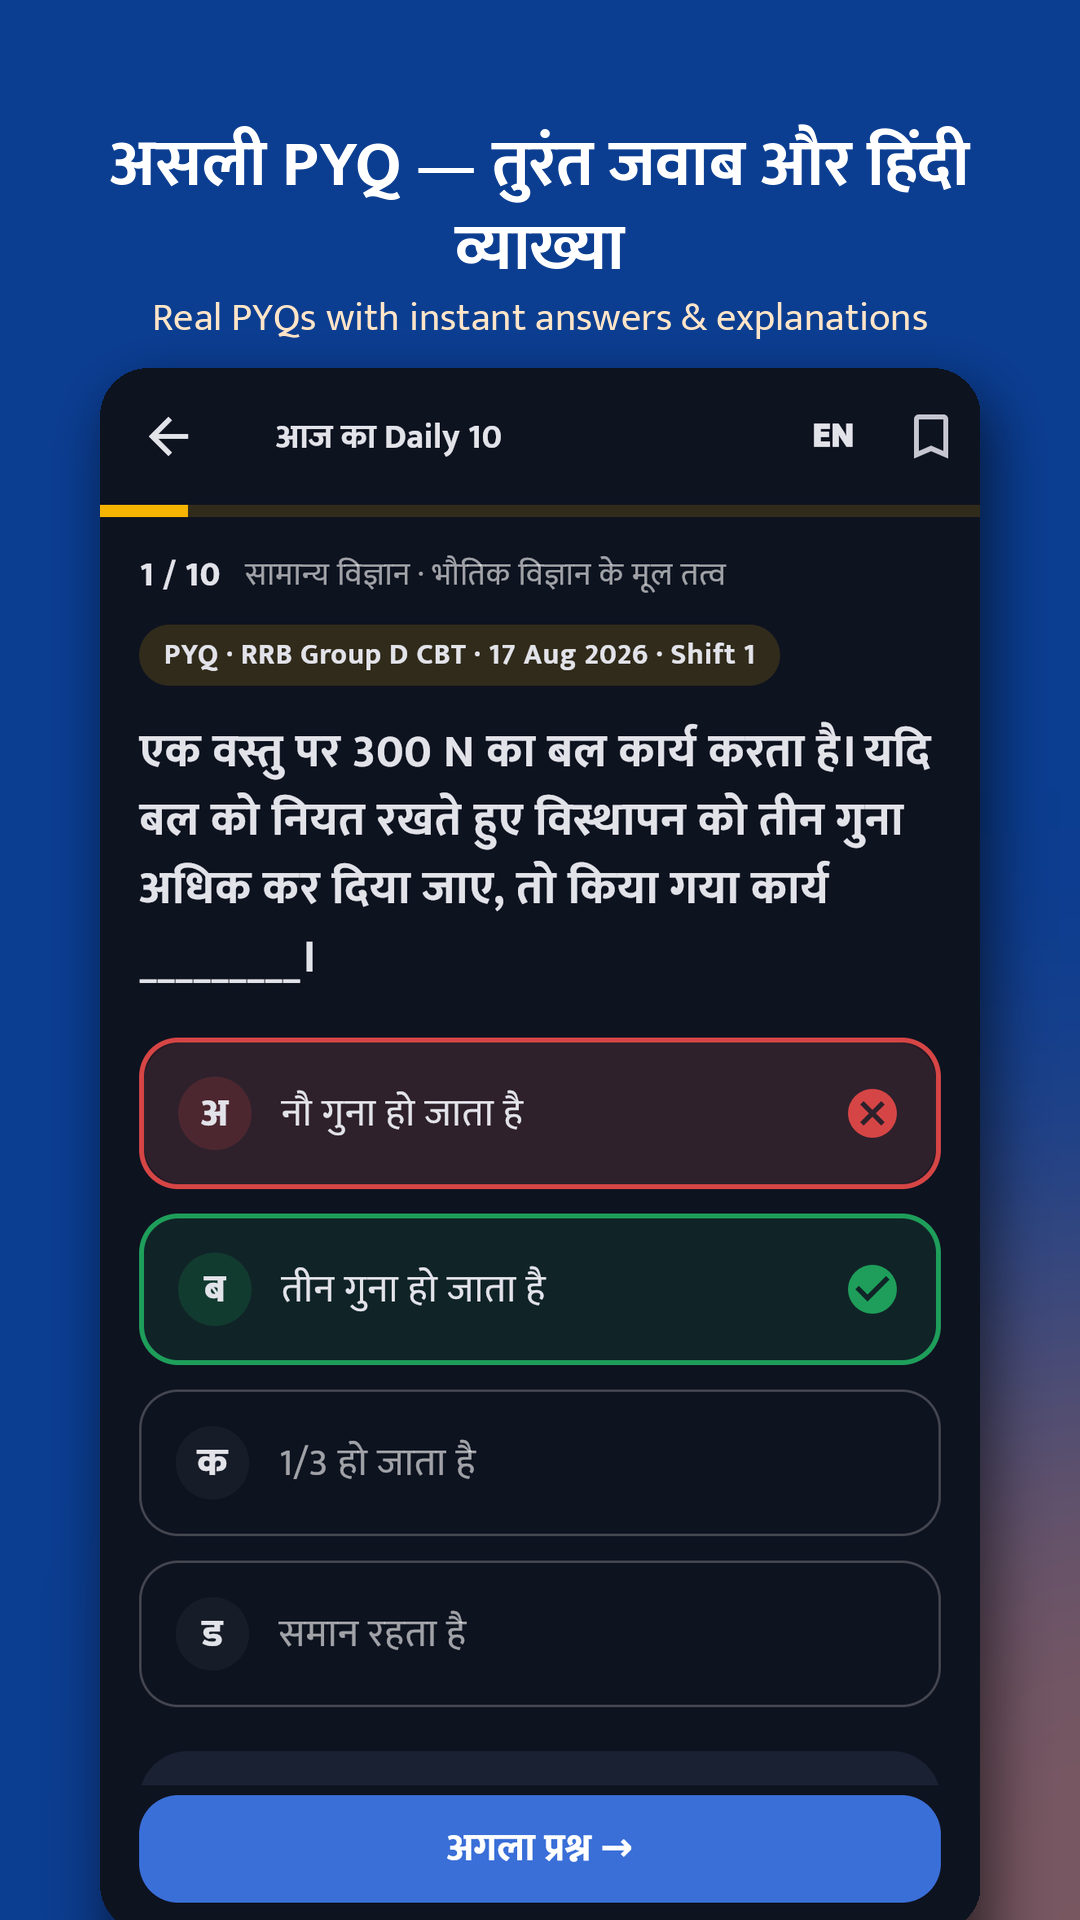
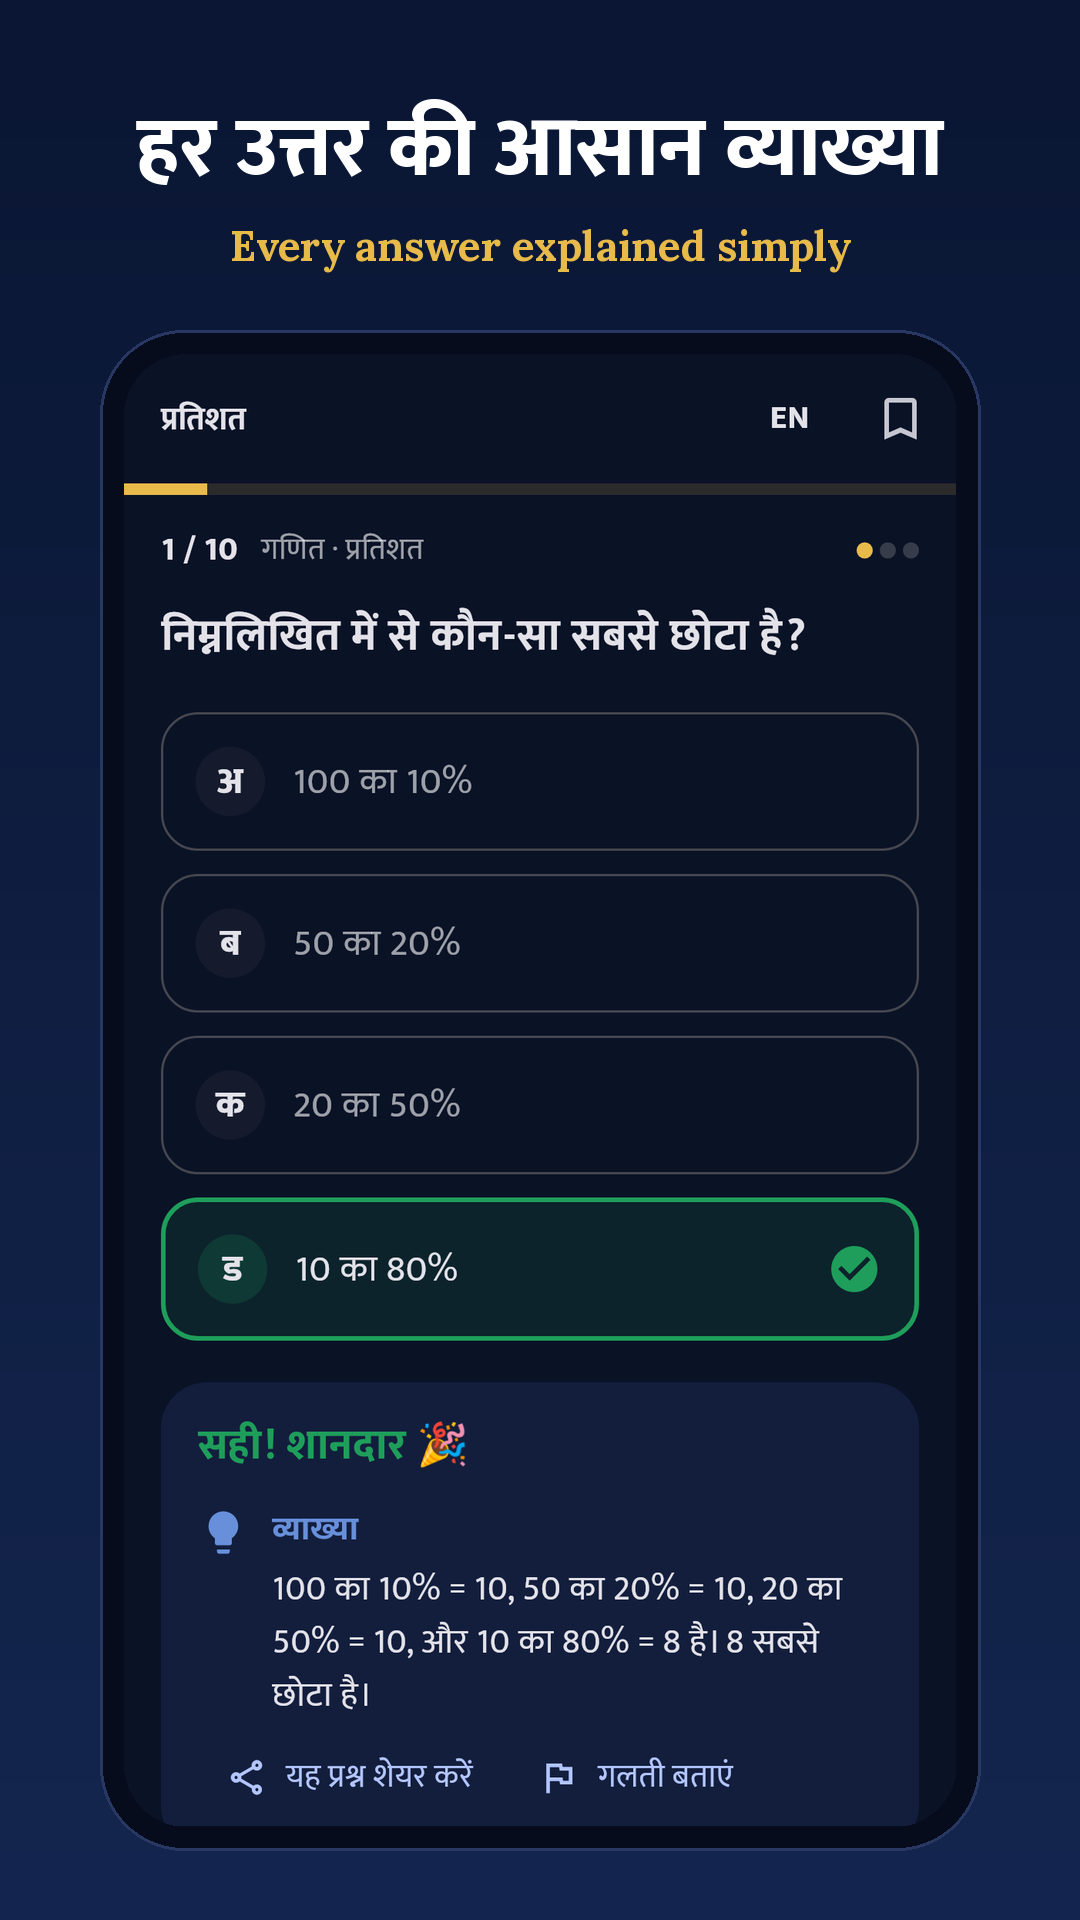
Store screenshots in the new navy and gold: rendered from the real screens, framed by pipeline/store_shots.py
Claude-Session: https://claude.ai/code/session_01T9442ta7HcxGi7RPfPaS6U

diff --git a/railpariksha/app/test/store_shots_test.dart b/railpariksha/app/test/store_shots_test.dart
@@ -1,0 +1,141 @@
+// Renders the Play Store / website screenshots from the real screens (Hindi, dark, 360x740 at 3x).
+// Skipped unless STORE_SHOTS_DIR is set:  STORE_SHOTS_DIR=/tmp/raw flutter test test/store_shots_test.dart
+// pipeline/store_shots.py then frames them with a caption.
+import 'dart:io';
+import 'dart:ui' as ui;
+
+import 'package:flutter/material.dart';
+import 'package:flutter/rendering.dart';
+import 'package:flutter/services.dart';
+import 'package:flutter_test/flutter_test.dart';
+import 'package:railpariksha/core/app_scope.dart';
+import 'package:railpariksha/core/purchases.dart';
+import 'package:railpariksha/core/theme.dart';
+import 'package:railpariksha/data/content_repo.dart';
+import 'package:railpariksha/data/progress.dart';
+import 'package:railpariksha/logic/quiz_builder.dart';
+import 'package:railpariksha/screens/ca_digest_screen.dart';
+import 'package:railpariksha/screens/flashcard_screen.dart';
+import 'package:railpariksha/screens/practice_screen.dart';
+import 'package:railpariksha/screens/pyq_screen.dart';
+import 'package:railpariksha/screens/quiz_screen.dart';
+import 'package:railpariksha/screens/today_screen.dart';
+
+Future<void> _fonts() async {
+  final mukta = FontLoader('Mukta');
+  for (final w in ['Regular', 'SemiBold', 'Bold', 'ExtraBold']) {
+    mukta.addFont(Future.value(ByteData.view(File('assets/fonts/Mukta-$w.ttf').readAsBytesSync().buffer)));
+  }
+  await mukta.load();
+  final lora = FontLoader('Lora')
+    ..addFont(Future.value(ByteData.view(File('assets/fonts/Lora-Bold.ttf').readAsBytesSync().buffer)));
+  await lora.load();
+  final icons = FontLoader('MaterialIcons')
+    ..addFont(Future.value(ByteData.view(
+        File('${Platform.environment['FLUTTER_ROOT'] ?? '/tmp/flutter'}/bin/cache/artifacts/material_fonts/MaterialIcons-Regular.otf').readAsBytesSync().buffer)));
+  await icons.load();
+  final emoji = FontLoader('NotoColorEmoji')
+    ..addFont(Future.value(ByteData.view(File('/usr/share/fonts/truetype/noto/NotoColorEmoji.ttf').readAsBytesSync().buffer)));
+  await emoji.load();
+  final roboto = FontLoader('RobotoShot')
+    ..addFont(Future.value(ByteData.view(
+        File('${Platform.environment['FLUTTER_ROOT'] ?? '/tmp/flutter'}/bin/cache/artifacts/material_fonts/Roboto-Regular.ttf')
+            .readAsBytesSync()
+            .buffer)));
+  await roboto.load();
+  final math = FontLoader('MathFallback')
+    ..addFont(Future.value(ByteData.view(File('assets/fonts/MathFallback-Regular.ttf').readAsBytesSync().buffer)));
+  await math.load();
+}
+
+void main() {
+  TestWidgetsFlutterBinding.ensureInitialized();
+  final dir = Platform.environment['STORE_SHOTS_DIR'];
+  if (dir == null) {
+    test('store shots (skipped: STORE_SHOTS_DIR not set)', () {}, skip: true);
+    return;
+  }
+  late ContentRepo repo;
+  setUpAll(() async {
+    await _fonts();
+    repo = ContentRepo();
+    await repo.load();
+    Directory(dir).createSync(recursive: true);
+  });
+
+  Future<void> shot(WidgetTester tester, String name, Widget Function(ContentRepo, Progress) build,
+      {Future<void> Function(WidgetTester)? after}) async {
+    tester.view.physicalSize = const Size(360 * 3, 740 * 3);
+    tester.view.devicePixelRatio = 3;
+    addTearDown(tester.view.reset);
+    final p = Progress()
+      ..lang = 'hi'
+      ..onboarded = true
+      ..name = 'Aniket'
+      ..examId = 'rrb_ntpc'
+      ..removedAds = false
+      ..reminders = false;
+    final key = GlobalKey();
+    await tester.pumpWidget(RepaintBoundary(
+      key: key,
+      child: AppScope(
+        repo: repo,
+        progress: p,
+        purchases: PurchaseManager(p),
+        child: MaterialApp(
+          debugShowCheckedModeBanner: false,
+          theme: () {
+            final t = buildTheme(Brightness.dark);
+            const fb = ['MathFallback', 'RobotoShot', 'NotoColorEmoji'];
+            return t.copyWith(
+              textTheme: t.textTheme.apply(fontFamilyFallback: fb),
+              appBarTheme: t.appBarTheme.copyWith(
+                  titleTextStyle: t.appBarTheme.titleTextStyle?.copyWith(fontFamilyFallback: ['Mukta', ...fb])),
+            );
+          }(),
+          home: Scaffold(body: build(repo, p)),
+        ),
+      ),
+    ));
+    await tester.pump();
+    await tester.pump(const Duration(seconds: 2));
+    if (after != null) {
+      await after(tester);
+      await tester.pump(const Duration(seconds: 2));
+    }
+    final boundary = key.currentContext!.findRenderObject() as RenderRepaintBoundary;
+    await tester.runAsync(() async {
+      final image = await boundary.toImage(pixelRatio: 3);
+      final png = await image.toByteData(format: ui.ImageByteFormat.png);
+      File('$dir/$name.png').writeAsBytesSync(png!.buffer.asUint8List());
+    });
+    await tester.pumpWidget(const SizedBox());
+    await tester.pump(const Duration(seconds: 2));
+  }
+
+  testWidgets('today', (t) => shot(t, 'today', (r, p) => TodayScreen(onNavigate: (_) {})));
+  testWidgets('pyq', (t) => shot(t, 'pyq', (r, p) => const PyqScreen()));
+  testWidgets('practice', (t) => shot(t, 'practice', (r, p) => const PracticeScreen()));
+  testWidgets('ca', (t) => shot(t, 'ca', (r, p) => const CaDigestScreen()));
+  testWidgets(
+      'flashcards',
+      (t) => shot(t, 'flashcards', (r, p) => const FlashcardScreen(), after: (t) async {
+        await t.tap(find.textContaining('टैप'));
+        await t.pump(const Duration(seconds: 1));
+      }));
+  testWidgets(
+      'mock',
+      (t) => shot(t, 'mock', (r, p) => QuizScreen(spec: QuizBuilder(r, p).mock()), after: (t) async {
+        await t.tap(find.byType(CircleAvatar).at(2));
+        await t.pump(const Duration(seconds: 1));
+      }));
+  testWidgets('quiz', (t) {
+    late QuizSpec spec;
+    return shot(t, 'quiz', (r, p) => QuizScreen(spec: spec = QuizBuilder(r, p).practice(subject: 'maths', topic: 'percentage')),
+        after: (t) async {
+      // The right answer, so the store picture shows the "correct" state.
+      await t.tap(find.byType(CircleAvatar).at(spec.questions.first.answer));
+      await t.pump(const Duration(seconds: 1));
+    });
+  });
+}

diff --git a/railpariksha/pipeline/store_shots.py b/railpariksha/pipeline/store_shots.py
@@ -1,0 +1,89 @@
+#!/usr/bin/env python3
+"""Frames the raw screen renders into the seven Play Store screenshots (1080x1920) and the website strip.
+
+  STORE_SHOTS_DIR=/tmp/raw flutter test test/store_shots_test.dart     (in app/)   renders the real screens
+  python pipeline/store_shots.py --raw /tmp/raw                                     frames them
+
+Writes docs/store/play_console_assets/screenshots/N_*.png and docs/store/site_assets/shot-N.webp.
+Needs Pillow built with raqm (Hindi conjuncts).
+"""
+import argparse
+import sys
+from pathlib import Path
+
+from PIL import Image, ImageDraw, ImageFont
+
+ROOT = Path(__file__).resolve().parent.parent
+FONTS = ROOT / "app/assets/fonts"
+OUT = ROOT / "docs/store/play_console_assets/screenshots"
+SITE = ROOT / "docs/store/site_assets"
+W, H = 1080, 1920
+TOP, BOTTOM = (10, 22, 51), (20, 38, 79)
+GOLD = (232, 186, 74)
+SHOTS = [  # raw name, output name, Hindi caption, English caption
+    ("today", "1_01_today", "रोज़ का मिशन, स्ट्रीक और करेंट अफेयर्स", "Daily mission, streak & current affairs"),
+    ("pyq", "2_02_pyq", "रेलवे के असली पिछले साल के प्रश्न", "Real previous-year railway papers"),
+    ("quiz", "3_04_quiz_explanation", "हर उत्तर की आसान व्याख्या", "Every answer explained simply"),
+    ("ca", "4_05_ca_digest", "रोज़ का करेंट अफेयर्स", "Daily current affairs, in short"),
+    ("flashcards", "5_07_flashcards", "फ्लैशकार्ड से तेज़ रिवीज़न", "Quick revision with flashcards"),
+    ("mock", "6_09_mock", "असली परीक्षा जैसे मॉक टेस्ट", "Mock tests like the real exam"),
+    ("practice", "7_03_practice", "विषयवार अभ्यास", "Practice subject by subject"),
+]
+
+
+def gradient():
+    img = Image.new("RGB", (W, H), TOP)
+    d = ImageDraw.Draw(img)
+    for y in range(H):
+        t = y / (H - 1)
+        d.line([(0, y), (W, y)], fill=tuple(int(TOP[i] + (BOTTOM[i] - TOP[i]) * t) for i in range(3)))
+    return img
+
+
+def fit(draw, text, path, size, width):
+    while size > 40:
+        font = ImageFont.truetype(str(path), size)
+        if draw.textlength(text, font=font) <= width:
+            return font
+        size -= 2
+    return ImageFont.truetype(str(path), size)
+
+
+def frame(raw, hi, en):
+    img = gradient()
+    d = ImageDraw.Draw(img)
+    f = fit(d, hi, FONTS / "Mukta-ExtraBold.ttf", 84, W - 120)
+    d.text((W / 2, 150), hi, font=f, fill=(255, 255, 255), anchor="mm")
+    f2 = fit(d, en, FONTS / "Lora-Bold.ttf", 42, W - 160)
+    d.text((W / 2, 245), en, font=f2, fill=GOLD, anchor="mm")
+    # phone: dark body with the screen inset, cropped from the bottom so the top of the app is always visible
+    x0, y0, x1, y1 = 100, 330, 980, 1850
+    d.rounded_rectangle((x0, y0, x1, y1), radius=84, fill=(6, 12, 28), outline=(40, 56, 98), width=3)
+    pad = 24
+    sw, sh = x1 - x0 - 2 * pad, y1 - y0 - 2 * pad
+    shot = Image.open(raw).convert("RGB")
+    scale = sw / shot.width
+    shot = shot.resize((sw, round(shot.height * scale)), Image.LANCZOS).crop((0, 0, sw, sh))
+    mask = Image.new("L", (sw, sh), 0)
+    ImageDraw.Draw(mask).rounded_rectangle((0, 0, sw, sh), radius=62, fill=255)
+    img.paste(shot, (x0 + pad, y0 + pad), mask)
+    return img
+
+
+def main():
+    ap = argparse.ArgumentParser()
+    ap.add_argument("--raw", required=True, help="folder with today.png, pyq.png, ... from the screen render")
+    args = ap.parse_args()
+    raw = Path(args.raw)
+    for n, (name, out, hi, en) in enumerate(SHOTS, 1):
+        src = raw / f"{name}.png"
+        if not src.exists():
+            sys.exit(f"missing {src}")
+        img = frame(src, hi, en)
+        img.save(OUT / f"{out}.png", optimize=True)
+        img.resize((360, 640), Image.LANCZOS).save(SITE / f"shot-{n}.webp", quality=82, method=6)
+        print("wrote", out)
+
+
+if __name__ == "__main__":
+    main()
